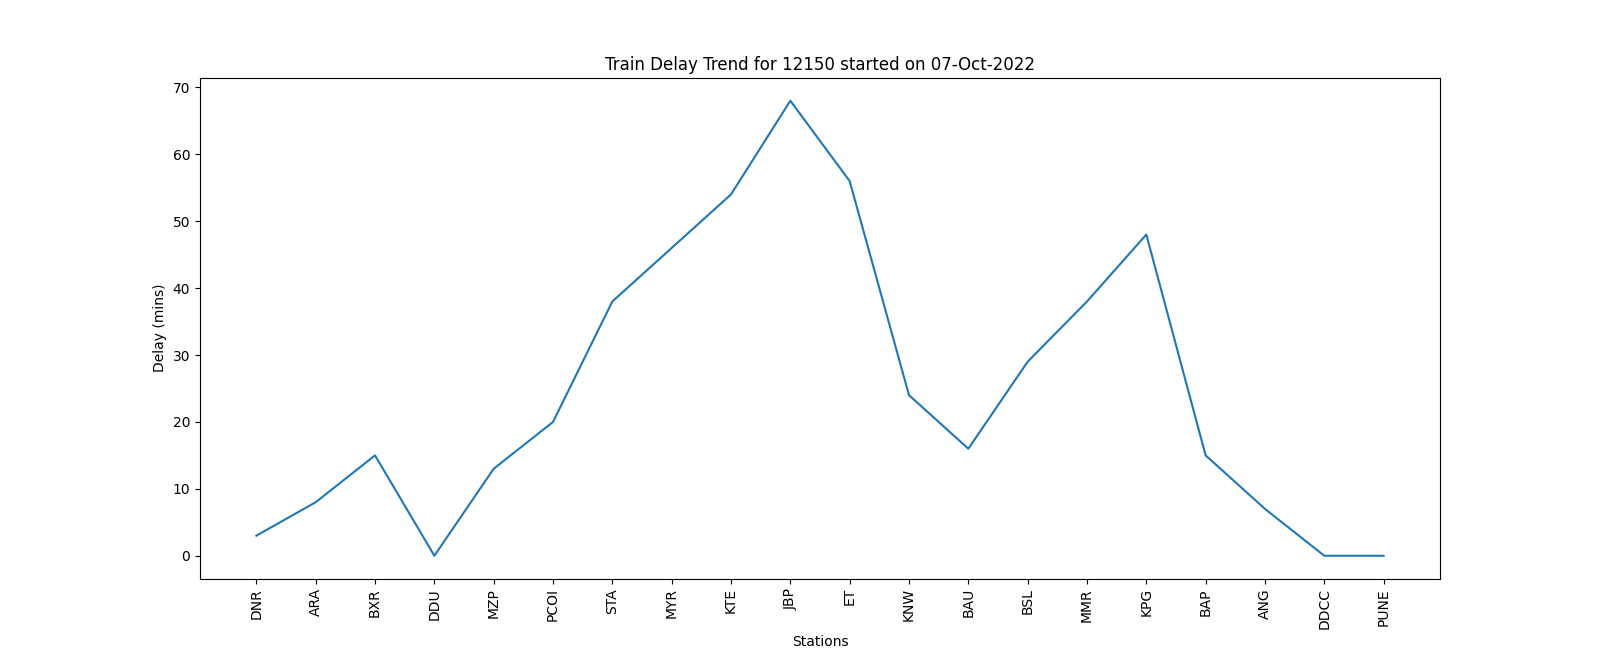
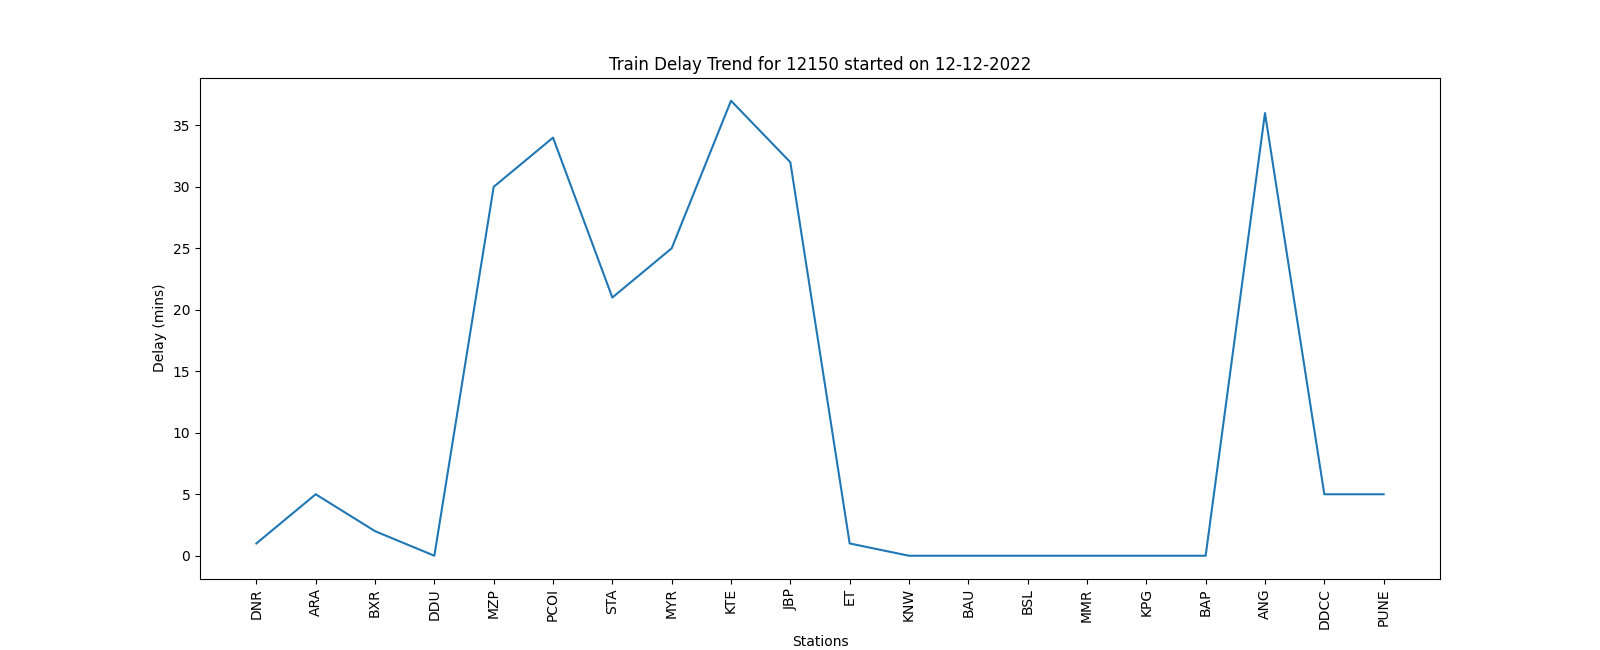
modifications

diff --git a/templates/home.html b/templates/home.html
@@ -13,7 +13,7 @@
                 {% comment %} {{my_form.as_p}} {% endcomment %}
                 <label>Train No.</label>
                 <input type="text" list="train_no_dd" name="train_no" autocomplete="off" required>
-                <datalist id="train_no_dd">
+                <datalist id="train_no_dd" style="height:5.1em;overflow:hidden">
                     {% for i in train_no_dropdown %}
                         <option>{{i}}</option>
                     {% endfor %}

diff --git a/base/views.py b/base/views.py
@@ -5,7 +5,6 @@ from matplotlib import pyplot as plt
 
 from .models import main, station_mapping
 
-
 def train_no(request):
     train_no = ''
     station_code=''
@@ -52,9 +51,9 @@ def train_no(request):
             station_name = dbStationName[station_code] if station_code in dbStationName.keys() else station_code
 
             for row in required_records:
-                dates.append(row.date)
+                dates.append(datetime.fromtimestamp(row.date_epoch).strftime("%d-%m-%Y"))
                 delay = row.delay
-                delays.append(int(delay) if delay.isdigit() else -10)
+                delays.append(delay)
             
             # print(dates,delays)
             # ax = plt.axes()
@@ -118,10 +117,9 @@ def full_status(request):
     if request.method == 'POST':
         train_no = request.POST.get('train_no')
         start_date = request.POST.get('start_from_source')
-        start_date = datetime.strptime(start_date,'%Y-%m-%d')
-        start_date = datetime.strftime(start_date,'%d-%b-%Y')
+        start_date_epoch = datetime.strptime(start_date,'%Y-%m-%d').timestamp()
 
-        required_records = main.objects.filter(train_no=train_no,start_from_source=start_date)
+        required_records = main.objects.filter(train_no=train_no,start_from_source_epoch=int(start_date_epoch))
 
         if required_records:
             is_submit = True
@@ -131,14 +129,14 @@ def full_status(request):
             for row in required_records:
                 stations.append(row.station_code)
                 delay = row.delay
-                delays.append(int(delay) if delay.isdigit() else -10)
+                delays.append(delay)
                 
             plt.figure(figsize=(16,6.5))
             plt.plot(stations,delays)
             plt.xlabel('Stations')
             plt.ylabel('Delay (mins)')
             plt.xticks(rotation=90)
-            plt.title(f'Train Delay Trend for {train_no} started on {start_date}')
+            plt.title(f'Train Delay Trend for {train_no} started on {datetime.fromtimestamp(int(start_date_epoch)).strftime("%d-%m-%Y")}')
 
             plt.savefig('static/graph1.png')
             plt.cla()

diff --git a/base/models.py b/base/models.py
@@ -2,15 +2,26 @@ from django.db import models
 
 # Create your models here.
 class main(models.Model):
-    train_no = models.CharField(db_column='train_no',max_length=200)
-    date = models.CharField(db_column='date',max_length=200)
-    delay = models.CharField(db_column='delay',max_length=200)
-    station_code = models.CharField(db_column='station_code',max_length=200)
-    start_from_source = models.CharField(db_column='start_from_source',max_length=200)
+    train_no = models.IntegerField(db_column='train_no')
+    station_code = models.CharField(db_column='station_code',max_length=4)
+    delay = models.IntegerField(db_column='delay')
+    date_epoch = models.IntegerField(db_column='date_epoch')
+    start_from_source_epoch = models.IntegerField(db_column='start_from_source_epoch')
     
     class Meta:
         managed = False
         db_table = 'main'
+
+# class train_info(models.Model):
+#     train_no = models.IntegerField(db_column='train_no')
+#     station_code = models.CharField(db_column='station_code',max_length=4)
+#     delay = models.IntegerField(db_column='delay')
+#     date_epoch = models.CharField(db_column='date_epoch')
+#     start_from_source_epoch = models.CharField(db_column='start_from_source_epoch')
+    
+#     class Meta:
+#         managed = False
+#         db_table = 'main'
 
 class station_mapping(models.Model):
     station_code = models.CharField(db_column='station_code',max_length=200)

diff --git a/DelayAnalysis/settings.py b/DelayAnalysis/settings.py
@@ -22,7 +22,7 @@ BASE_DIR = Path(__file__).resolve().parent.parent
 # See https://docs.djangoproject.com/en/3.2/howto/deployment/checklist/
 
 # SECURITY WARNING: keep the secret key used in production secret!
-SECRET_KEY = ''
+SECRET_KEY = 'django-insecure-8(_l_0gk9(hl^#h-@r$+z7es!0kojuyo2a+(+b_i(&v_1t7@#n'
 
 # SECURITY WARNING: don't run with debug turned on in production!
 DEBUG = True
@@ -84,7 +84,7 @@ DATABASES = {
         'NAME': 'live_train_data',
         'HOST': 'localhost',
         'USER': 'root',
-        'PASSWORD': '',
+        'PASSWORD': 'virals$260598',
         'PORT': 3306
     }
 }
